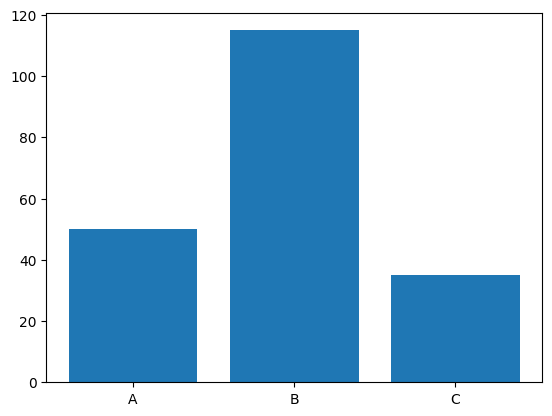
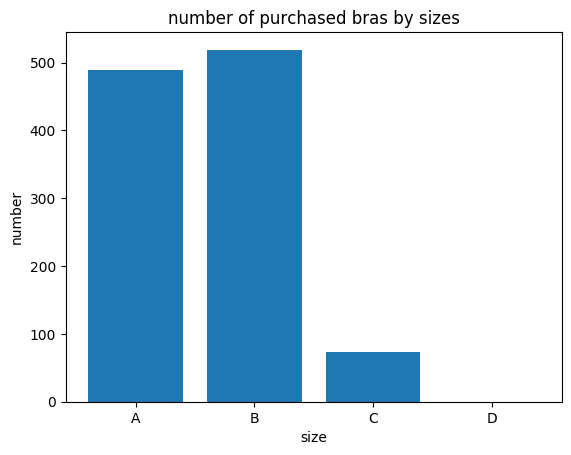
modify

diff --git a/chart_generate.py b/chart_generate.py
@@ -15,14 +15,14 @@ mycursor = mydb.cursor()
 sql = "select count(*) as num, color_refined from comments GROUP BY color_refined"
 mycursor.execute(sql)
 res = mycursor.fetchall()
-print(res)
-print([x[0] for x in res])
-
 labels = [x[1] for x in res]
-sizes = [x[0] for x in res]
-colors = labels
-plt.pie(sizes,  labels=labels, colors=colors, autopct='%1.1f%%', shadow=True, startangle=140)
-plt.axis('equal')
+colors = [x[0] for x in res]
+ig, ax = plt.subplots()
+#ax.set(title="color preference of bras")
+ax.set_title(label='color preference of bras', pad=20)
+
+ax.pie(colors,  labels=labels, colors=labels, autopct='%1.1f%%', shadow=True, startangle=140, pctdistance=1.1, labeldistance=1.2, radius=1)
+ax.axis('equal')
 plt.savefig('./public/charts/pie.png', bbox_inches='tight')
 
 
@@ -30,12 +30,21 @@ sql = "select count(*) as num, size_refined from comments GROUP BY size_refined"
 mycursor.execute(sql)
 res = mycursor.fetchall()
 print(res)
-x = numpy.arange(3)
-sizes = [x[0] for x in res]
-
-
-
+x = numpy.arange(4)
+print(x)
+size_arr = ['A', 'B', 'C', 'D']
+sizes = []
+for arr in size_arr:
+    num = 0
+    for x in res:
+        if arr == x[1]:
+            num = x[0]
+            continue
+    sizes.append(num)
+print(sizes)
 fig, ax = plt.subplots()
-plt.bar(x, sizes)
-plt.xticks(x, ([x[1] for x in res]))
+ax.set_ylabel('number')
+ax.set_xlabel('size')
+ax.set_title('number of purchased bras by sizes')
+ax.bar(size_arr, sizes)
 plt.savefig('./public/charts/bar.png', bbox_inches='tight')
